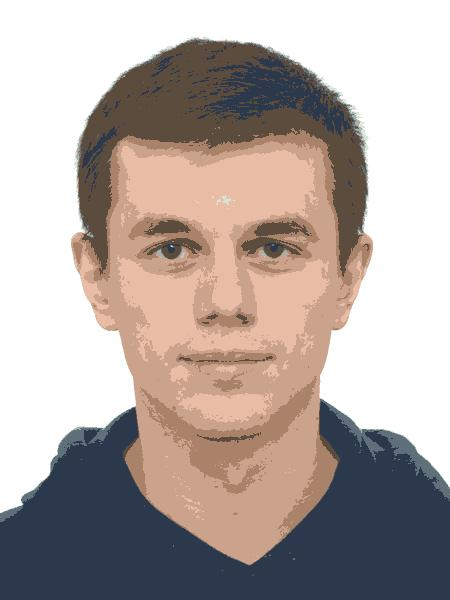
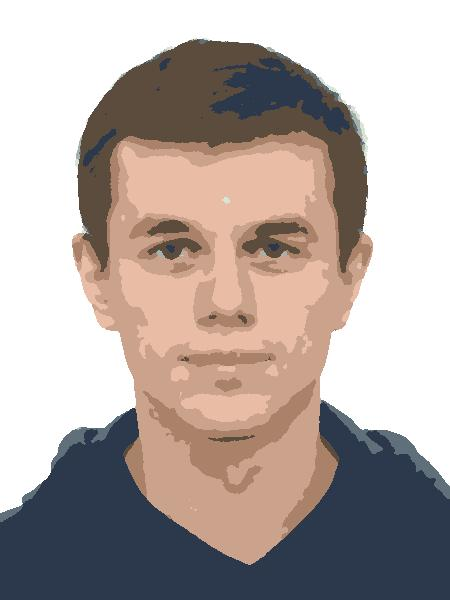
Implement contour feature.

diff --git a/src/main/java/com/gekko/ltd/core/service/ImageService.java b/src/main/java/com/gekko/ltd/core/service/ImageService.java
@@ -6,8 +6,6 @@ import com.gekko.ltd.core.entity.PixelRGB;
 import com.gekko.ltd.core.entity.intface.Pixel;
 
 import java.awt.image.BufferedImage;
-import java.io.IOException;
-import java.lang.reflect.Array;
 import java.util.*;
 import java.util.stream.Collectors;
 
@@ -288,11 +286,10 @@ public class ImageService {
         return pixels;
     }
 
-    public List<PixelRGB> makeOilEffect(List<PixelRGB> pixels, Integer width, Integer height) {
-        List<List<PixelRGB>> imgMatrix = getMatrixFromList(pixels, width, height, true);
+    public List<PixelRGB> makeOilEffect(List<List<PixelRGB>> imgMatrix, Integer width, Integer height) {
         List<PixelRGB> performedImg = new ArrayList<>();
-        for (int h = 0; h < height; h++) {
-            for (int w = 0; w < width; w++) {
+        for (int w = 0; w < width; w++) {
+            for (int h = 0; h < height; h++) {
                 List<PixelRGB> area = getAreaForPixel(w, h, width, height, imgMatrix);
                 Map<PixelRGB, Integer> counter = new HashMap<>();
                 area.forEach(pixel -> putPixelToMap(pixel, counter));
@@ -330,7 +327,7 @@ public class ImageService {
                 continue;
             }
             for (int j = (y - RADIUS); j < (y + RADIUS); j++) {
-                if (j < 0 || j >= height || i == j) {
+                if (j < 0 || j >= height || (i == x && j == y)) {
                     continue;
                 }
                 Integer diffX = Math.abs(x - i);
@@ -360,8 +357,8 @@ public class ImageService {
         return retList;
     }
 
-    private List<List<PixelRGB>> getMatrixFromList(List<PixelRGB> pixels, Integer width, Integer height,
-                                                   boolean performCheck) {
+    public List<List<PixelRGB>> getMatrixFromList(List<PixelRGB> pixels, Integer width, Integer height,
+                                                  boolean performCheck) {
         if (pixels.size() != width * height) {
             throw new RuntimeException("wrong number of pixels");
         }
@@ -397,5 +394,42 @@ public class ImageService {
             res.setRGB(pixel.getCoordinateX(), pixel.getCoordinateY(), pixel.convertToIntValue());
         }
         return res;
+    }
+
+    public List<PixelRGB> makeContour(List<List<PixelRGB>> imgMatrix, Integer width, Integer height) {
+        List<PixelRGB> performedImg = new ArrayList<>();
+        for (int w = 0; w < width; w++) {
+            for (int h = 0; h < height; h++) {
+                PixelRGB pixelRGB;
+                if (hasDifferentNeighbourhood(imgMatrix, h, w, height, width)) {
+                    pixelRGB = PixelRGB.getBlackRGB();
+                } else {
+                    pixelRGB = PixelRGB.getWhiteRGB();
+                }
+                pixelRGB.setCoordinateX(w);
+                pixelRGB.setCoordinateY(h);
+                performedImg.add(pixelRGB);
+            }
+        }
+        return performedImg;
+    }
+
+    private boolean hasDifferentNeighbourhood(List<List<PixelRGB>> imgMatrix, int h, int w, Integer height, Integer width) {
+        PixelRGB center = imgMatrix.get(w).get(h);
+        for (int i = w - 1; i <= w + 1; i++) {
+            if (i < 0 || i >= width) {
+                continue;
+            }
+            for (int j = h - 1; j <= h + 1; j++) {
+                if (j < 0 || j >= height || (i == w && j == h)) {
+                    continue;
+                }
+                PixelRGB neighbourhood = imgMatrix.get(i).get(j);
+                if (!center.equals(neighbourhood)) {
+                    return true;
+                }
+            }
+        }
+        return false;
     }
 }

diff --git a/src/main/java/com/gekko/ltd/core/Main.java b/src/main/java/com/gekko/ltd/core/Main.java
@@ -48,12 +48,18 @@ public class Main {
         List<PixelRGB> performedPixels = imageService.performImage(listOfPixels, topColors);
         log("Clusters created");
 
-        performedPixels = imageService.makeOilEffect(performedPixels, width, height);
+        List<List<PixelRGB>> imgMatrix = imageService.getMatrixFromList(performedPixels, width, height, true);
+        performedPixels = imageService.makeOilEffect(imgMatrix, width, height);
         log("Oil effect applied");
 
-        BufferedImage performedImage = imageService.createBufferedImage(performedPixels, img.getWidth(), img.getHeight());
-        pictureReader.saveImage(performedImage);
-        log("Image saved");
+        saveAtFile(performedPixels, PictureReader.NAME_OF_RESULT_FILE, width, height);
+        log("Result saved");
+
+        imgMatrix = imageService.getMatrixFromList(performedPixels, width, height, true);
+        performedPixels = imageService.makeContour(imgMatrix, width, height);
+
+        saveAtFile(performedPixels, PictureReader.NAME_OF_CONTOUR_FILE, width, height);
+        log("Contour saved");
 
         LocalDateTime finish = LocalDateTime.now();
         log("Number of top colors: " + topColors.size() + "\n" +
@@ -62,5 +68,10 @@ public class Main {
 
     private static void log(String message) {
         System.out.println(message);
+    }
+
+    private static void saveAtFile(List<PixelRGB> pixels, String fileName, Integer width, Integer height) {
+        BufferedImage performedImage = imageService.createBufferedImage(pixels, width, height);
+        pictureReader.saveImage(performedImage, fileName);
     }
 }

diff --git a/src/main/java/com/gekko/ltd/core/service/PictureReader.java b/src/main/java/com/gekko/ltd/core/service/PictureReader.java
@@ -17,6 +17,7 @@ public class PictureReader {
     public static final String NAME_OF_INPUT_FILE = "testPicture6.jpg";
     public static final String NAME_OF_COMPRESSED_FILE = "compressed.jpg";
     public static final String NAME_OF_RESULT_FILE = "result.jpg";
+    public static final String NAME_OF_CONTOUR_FILE = "contour.jpg";
     private static final String ROOT = System.getProperty("user.dir") + "/";
     private static PictureReader instance;
 
@@ -50,8 +51,8 @@ public class PictureReader {
         return getPictureInRootPath(NAME_OF_COMPRESSED_FILE);
     }
 
-    public void saveImage(BufferedImage image) {
-        File file = new File(NAME_OF_RESULT_FILE);
+    public void saveImage(BufferedImage image, String resultFileName) {
+        File file = new File(resultFileName);
         try {
             ImageIO.write(image, "JPG", file);
             Desktop.getDesktop().open(file);

diff --git a/src/main/java/com/gekko/ltd/core/entity/PixelRGB.java b/src/main/java/com/gekko/ltd/core/entity/PixelRGB.java
@@ -151,4 +151,12 @@ public class PixelRGB extends Pixel {
         pixelRGB.setBlue(this.blue);
         return pixelRGB;
     }
+
+    public static PixelRGB getBlackRGB() {
+        return createPixelFromRGB(0, 0, 0);
+    }
+
+    public static PixelRGB getWhiteRGB() {
+        return createPixelFromRGB(255, 255, 255);
+    }
 }
